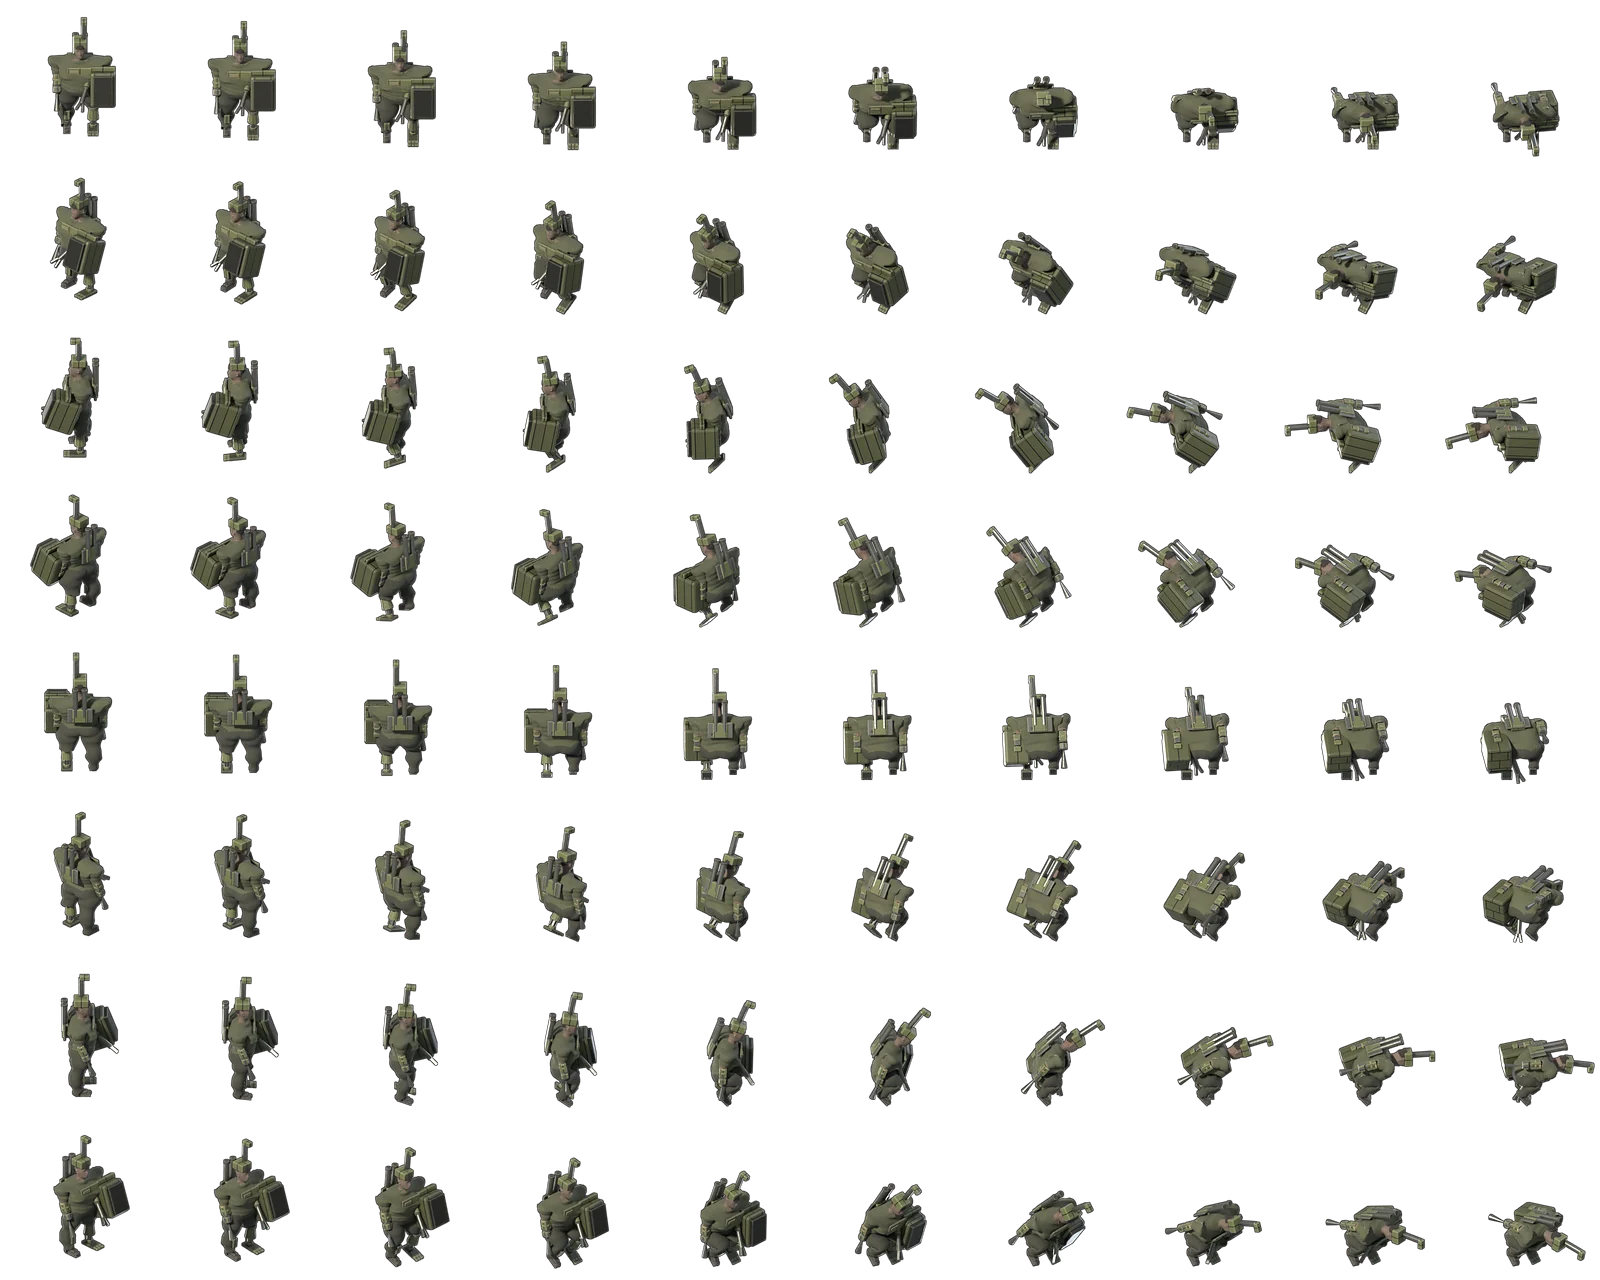
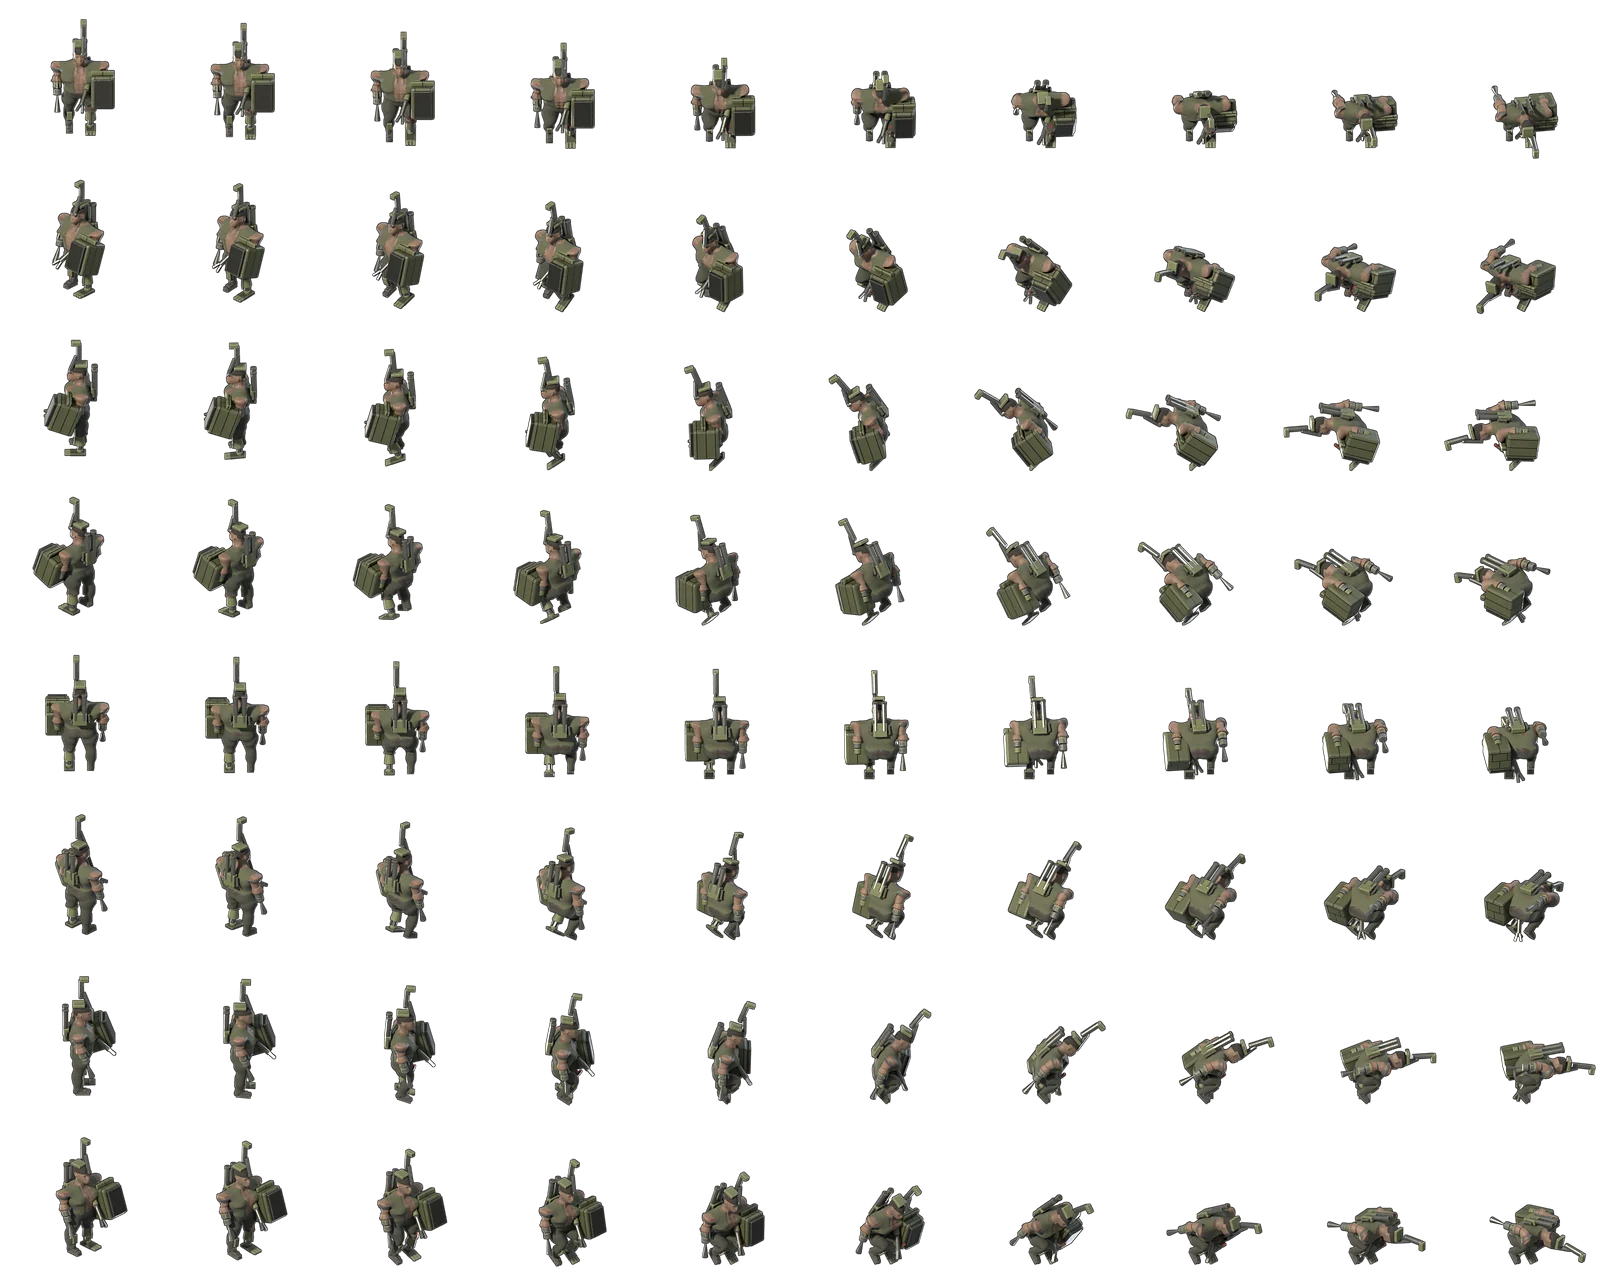
Organic bosses: re-render + pack overseer (+half-res); orthoK 1.12->1.2 so the periscope never clips the frame in death

diff --git a/tools/enemies3d/specs_radical.py b/tools/enemies3d/specs_radical.py
@@ -33,7 +33,7 @@ LOOK = {
   'retrieval':   dict(bulk=(1.8,1.5),  grow=1.0, look=dict(donor=True, tools={'R':'longclaw'}, head='crt', back='reel', piston=('R',))),
   'reclaimer':   dict(bulk=(2.35,1.9), grow=1.0,  look=dict(tools={'R':'saw'}, head='round', back='drum', piston=('L',))),
 }
-ORTHOK={'brannoch':1.26,'enforcer':1.18,'overseer':1.12,'retrieval':1.2,'teague':1.08,'reclaimer':1.14,'recovered':1.08,'surgeon':1.06,'quenchpriest':1.06,'anesthetist':1.06}   # frame headroom only (game size is art.h, normalised by hpx)
+ORTHOK={'brannoch':1.26,'enforcer':1.18,'overseer':1.2,'retrieval':1.2,'teague':1.08,'reclaimer':1.14,'recovered':1.08,'surgeon':1.06,'quenchpriest':1.06,'anesthetist':1.06}   # frame headroom only (game size is art.h, normalised by hpx)
 _apply0=apply
 def apply(SPECS):
     _apply0(SPECS)
